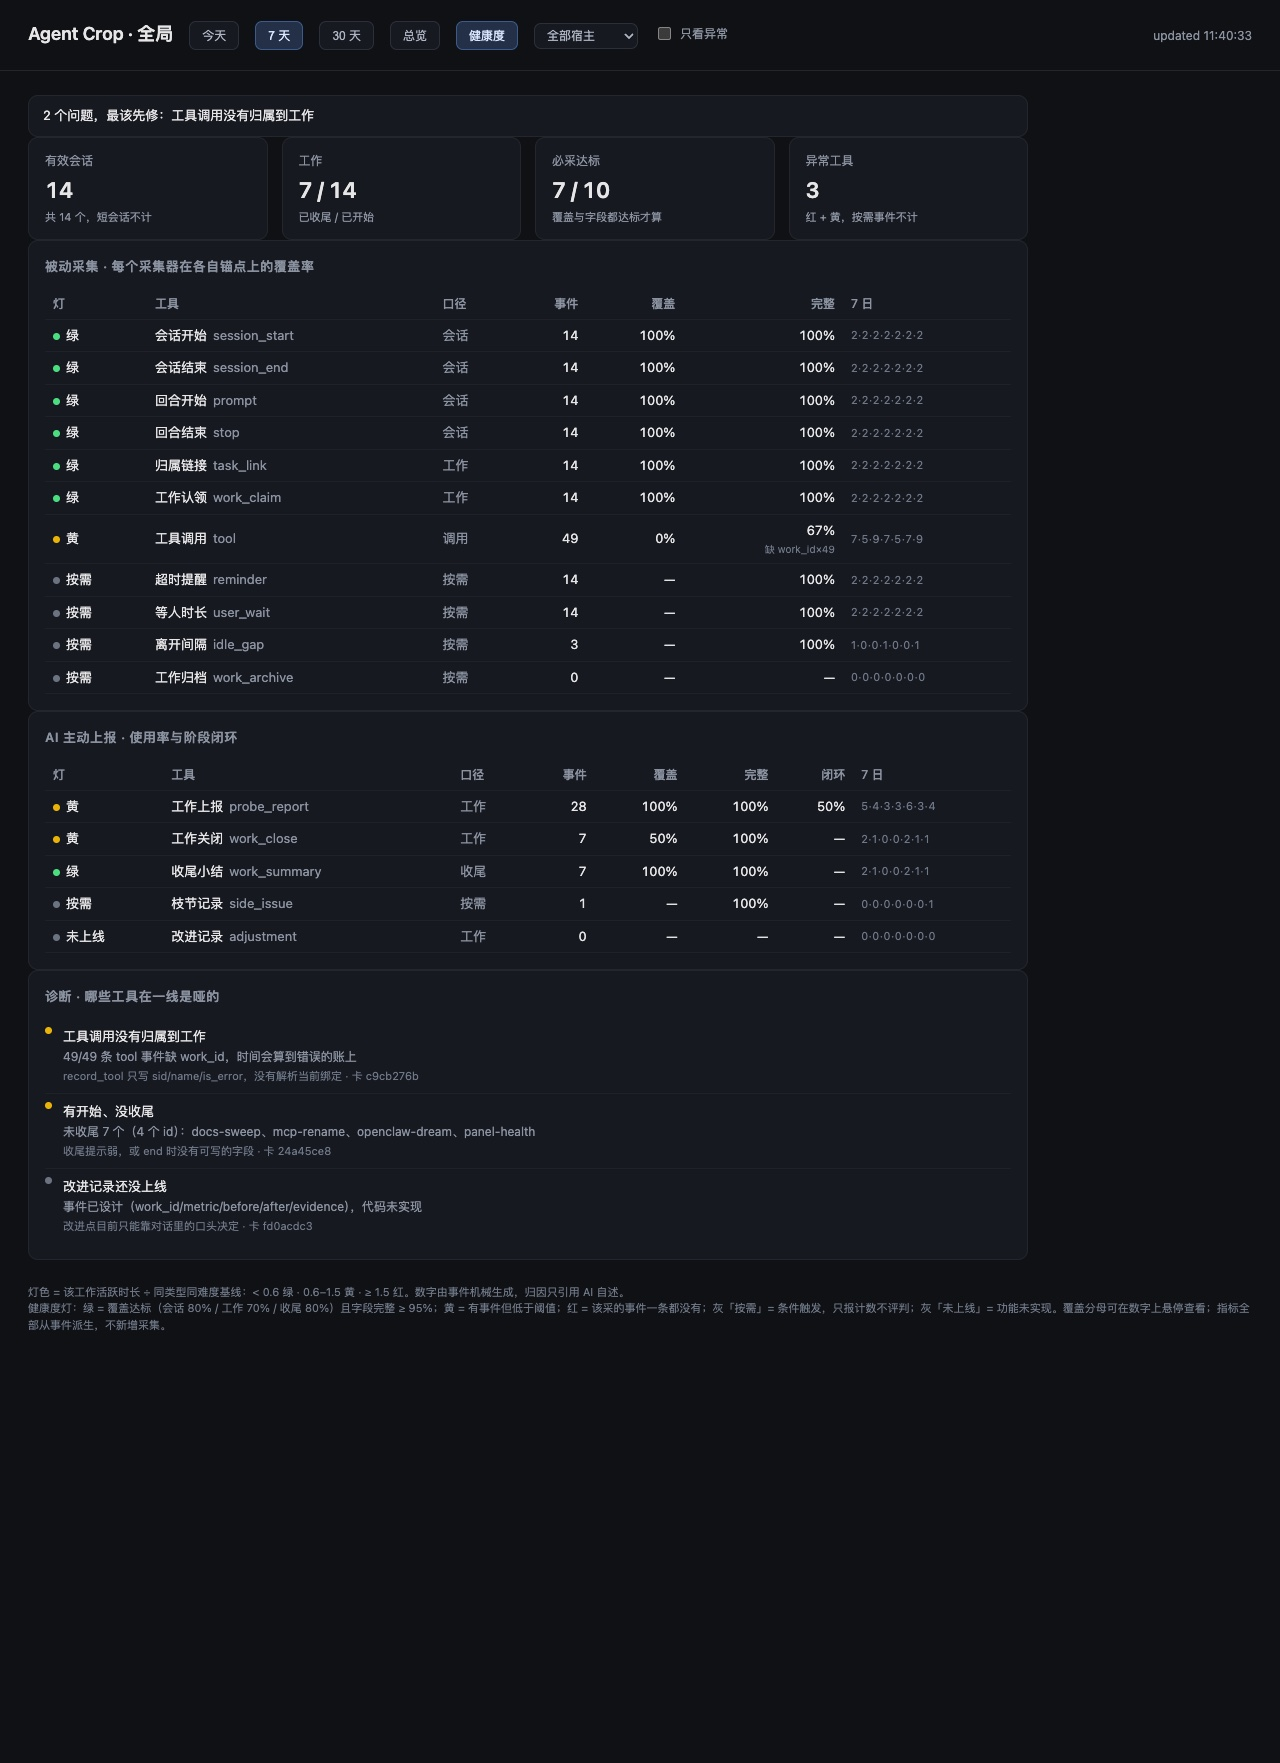
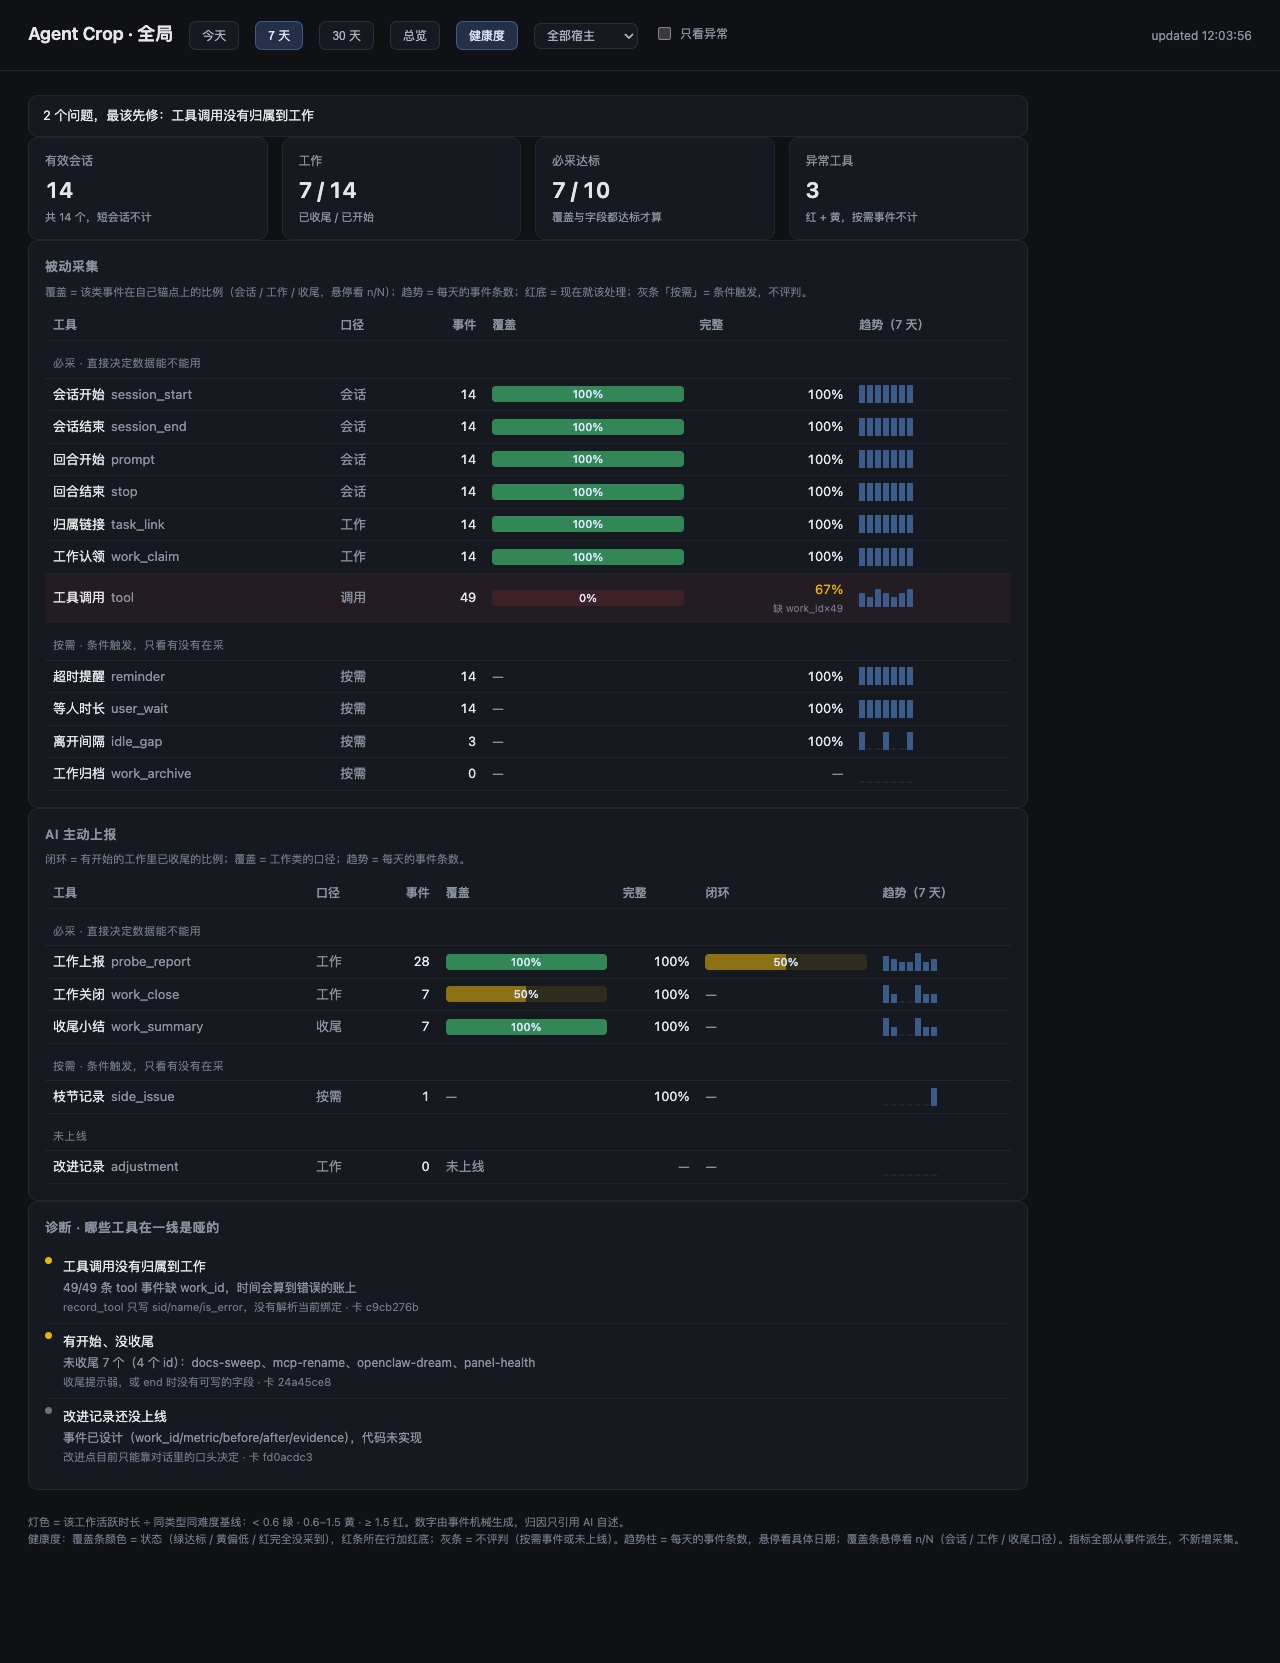
feat(panel): 健康度表格改成人读的形态——彩色覆盖条、分组、趋势小柱图
- 覆盖/闭环从「灯 + 百分比」合并成彩色条：绿达标 / 黄偏低 / 红完全没采到；
  条内写百分比、悬停显示 n/N；红条所在行加淡红底，扫一眼就能定位
- 表格按「必采 / 按需 / 未上线」分组；「按需」组不再参与评判
- 趋势从数字串换成每天事件条数的小柱图，悬停看具体日期；表头加一句口径说明
- 修 no-delta 规则误把分组行也隐藏的问题（改为只藏 delta 单元格）
- 修 .bar 与总览图表 class 冲突导致条颜色失效（改名 .meter）
- README/CHANGELOG 同步截图与说明

diff --git a/core/crop_serve.py b/core/crop_serve.py
@@ -42,7 +42,7 @@ th.num{text-align:right}
 .tab{background:#161920;border:1px solid #2a2f39;color:#aeb6c4;border-radius:7px;padding:5px 12px;font-size:12px;cursor:pointer}
 .tab.on{background:#233047;border-color:#3b5b8a;color:#dbe7ff}
 .view[hidden]{display:none}
-table.no-delta th:last-child,table.no-delta td:last-child{display:none}
+table.no-delta th.delta,table.no-delta td.delta{display:none}
 .diag{display:grid;grid-template-columns:10px 1fr;gap:8px;padding:8px 0;border-bottom:1px solid #1e2128}
 .diag:last-child{border-bottom:0}
 .diag .t{font-size:13px}
@@ -50,6 +50,15 @@ table.no-delta th:last-child,table.no-delta td:last-child{display:none}
 .diag .c{color:#6f7887;font-size:11px;margin-top:2px}
 .trend{color:#6f7887;font-size:11px;letter-spacing:.04em}
 .mini{color:#6f7887;font-size:10px;margin-top:2px}
+.hint{color:#6f7887;font-size:11px;margin:-6px 0 10px;line-height:1.6}
+tr.group td{color:#6f7887;font-size:11px;padding-top:14px;border-bottom:1px solid #23262d;letter-spacing:.04em}
+tr.row-red td{background:rgba(239,68,68,.06)}
+.meter{position:relative;height:16px;background:#1e2128;border-radius:4px;overflow:hidden;min-width:96px}
+.meter i{display:block;height:100%;opacity:.5}
+.meter b{position:absolute;inset:0;display:flex;align-items:center;justify-content:center;font-weight:500;font-size:11px;color:#dbe7ff}
+.spark{display:flex;align-items:flex-end;gap:2px;height:18px}
+.spark i{display:block;width:6px;background:#3b5b8a;border-radius:1px 1px 0 0;min-height:2px}
+.spark i.zero{background:#23262d}
 .headline{background:#161920;border:1px solid #23262d;border-radius:10px;padding:10px 14px;font-size:13px}
 select.host{background:#161920;border:1px solid #2a2f39;color:#aeb6c4;border-radius:7px;padding:4px 8px;font-size:12px}
 .chart{display:flex;align-items:flex-end;gap:6px;height:180px;padding-top:6px}
@@ -88,12 +97,14 @@ footer{color:#6f7887;font-size:11px;padding:0 28px 24px}
   <div id="view-health" class="view" hidden>
     <div class="headline" id="health-headline"></div>
     <div class="cards" id="health-cards"></div>
-    <section><h2>被动采集 · 每个采集器在各自锚点上的覆盖率</h2>
-      <table><thead><tr><th>灯</th><th>工具</th><th>口径</th><th class="num">事件</th><th class="num">覆盖</th><th class="num">完整</th><th>7 日</th><th class="num">比上周</th></tr></thead>
+    <section><h2>被动采集</h2>
+      <div class="hint">覆盖 = 该类事件在自己锚点上的比例（会话 / 工作 / 收尾，悬停看 n/N）；趋势 = 每天的事件条数；红底 = 现在就该处理；灰条「按需」= 条件触发，不评判。</div>
+      <table><thead><tr><th>工具</th><th>口径</th><th class="num">事件</th><th>覆盖</th><th>完整</th><th>趋势（7 天）</th><th class="num delta">比上周</th></tr></thead>
         <tbody id="health-passive"></tbody></table>
     </section>
-    <section><h2>AI 主动上报 · 使用率与阶段闭环</h2>
-      <table><thead><tr><th>灯</th><th>工具</th><th>口径</th><th class="num">事件</th><th class="num">覆盖</th><th class="num">完整</th><th class="num">闭环</th><th>7 日</th><th class="num">比上周</th></tr></thead>
+    <section><h2>AI 主动上报</h2>
+      <div class="hint">闭环 = 有开始的工作里已收尾的比例；覆盖 = 工作类的口径；趋势 = 每天的事件条数。</div>
+      <table><thead><tr><th>工具</th><th>口径</th><th class="num">事件</th><th>覆盖</th><th>完整</th><th>闭环</th><th>趋势（7 天）</th><th class="num delta">比上周</th></tr></thead>
         <tbody id="health-active"></tbody></table>
     </section>
     <section><h2>诊断 · 哪些工具在一线是哑的</h2>
@@ -101,7 +112,7 @@ footer{color:#6f7887;font-size:11px;padding:0 28px 24px}
     </section>
   </div>
 </main>
-<footer>灯色 = 该工作活跃时长 ÷ 同类型同难度基线：&lt; 0.6 绿 · 0.6–1.5 黄 · ≥ 1.5 红。数字由事件机械生成，归因只引用 AI 自述。<br>健康度灯：绿 = 覆盖达标（会话 80% / 工作 70% / 收尾 80%）且字段完整 ≥ 95%；黄 = 有事件但低于阈值；红 = 该采的事件一条都没有；灰「按需」= 条件触发，只报计数不评判；灰「未上线」= 功能未实现。覆盖分母可在数字上悬停查看；指标全部从事件派生，不新增采集。</footer>
+<footer>灯色 = 该工作活跃时长 ÷ 同类型同难度基线：&lt; 0.6 绿 · 0.6–1.5 黄 · ≥ 1.5 红。数字由事件机械生成，归因只引用 AI 自述。<br>健康度：覆盖条颜色 = 状态（绿达标 / 黄偏低 / 红完全没采到），红条所在行加红底；灰条 = 不评判（按需事件或未上线）。趋势柱 = 每天的事件条数，悬停看具体日期；覆盖条悬停看 n/N（会话 / 工作 / 收尾口径）。指标全部从事件派生，不新增采集。</footer>
 <script>
 let rangeDays = 7;
 const LAMP = {green:'#4ade80', yellow:'#eab308', red:'#ef4444'};
@@ -198,18 +209,58 @@ if (hostSelect) hostSelect.addEventListener('change', () => load());
 const issueToggle = document.getElementById('only-issues');
 if (issueToggle) issueToggle.addEventListener('change', () => { onlyIssues = issueToggle.checked; load(); });
 
-function lampDot(row){
-  if (row.status === 'not-shipped') return '<span class="dot" style="background:#6b7280"></span>未上线';
-  if (row['class'] === 'on_demand') return '<span class="dot" style="background:#6b7280"></span>按需';
-  const color = LAMP[row.lamp] || '#6b7280';
-  const label = {green:'绿', yellow:'黄', red:'红'}[row.lamp] || '—';
-  return '<span class="dot" style="background:' + color + '"></span>' + label;
-}
 function pct(value){ return value == null ? '—' : Math.round(value * 100) + '%'; }
-function trendText(rows){
-  if (!rows || !rows.length) return '—';
-  return rows.map(row => row.count).join('·');
+
+function missingNote(row){
+  const entries = Object.entries(row.missing_fields || {});
+  if (!entries.length) return '';
+  return '<div class="mini">缺 ' + entries.map(([key, value]) => esc(key) + '×' + value).join('、') + '</div>';
 }
+
+function barCell(options){
+  const value = options.value;
+  if (value == null) return '<td><span class="muted">—</span></td>';
+  const width = Math.max(0, Math.min(100, Math.round(value * 100)));
+  return '<td><div class="meter" style="background:' + options.color + '1f" title="' + esc(options.title || '') + '">' +
+    '<i style="width:' + width + '%;background:' + options.color + '"></i>' +
+    '<b>' + pct(value) + '</b></div>' + (options.note || '') + '</td>';
+}
+
+function coverageCell(row){
+  if (row.status === 'not-shipped') return '<td><span class="muted">未上线</span></td>';
+  if (row['class'] === 'on_demand' || row.session_coverage == null) return '<td><span class="muted">—</span></td>';
+  const title = row.coverage_numerator != null
+    ? row.coverage_numerator + ' / ' + row.coverage_denominator + '（' + row.scope + '口径）'
+    : '';
+  const thresholds = {session: 0.8, work: 0.7, ended: 0.8, call: 0.9};
+  const value = row.session_coverage;
+  const threshold = thresholds[row['class']] || 0.8;
+  const color = value >= threshold ? '#4ade80' : (value > 0 ? '#eab308' : '#ef4444');
+  return barCell({value: value, color: color, title: title});
+}
+
+function closureCell(row, works){
+  if (row.status === 'not-shipped' || row.stage_closure == null) return '<td><span class="muted">—</span></td>';
+  const color = row.stage_closure >= 0.7 ? '#4ade80' : '#eab308';
+  const title = '已收尾 ' + (works.ended || 0) + ' / 已开始 ' + (works.started || 0);
+  return barCell({value: row.stage_closure, color: color, title: title});
+}
+
+function completenessCell(row){
+  if (!row.events) return '<td class="num"><span class="muted">—</span></td>';
+  const value = row.field_completeness;
+  const color = value >= 0.95 ? '#e6e6e6' : (value > 0 ? '#eab308' : '#ef4444');
+  return '<td class="num" style="color:' + color + '">' + pct(value) + missingNote(row) + '</td>';
+}
+
+function sparkline(rows){
+  if (!rows || !rows.length) return '—';
+  const max = Math.max(1, ...rows.map(row => row.count));
+  return '<div class="spark" title="每天的事件条数（7 天，悬停看某一天）">' + rows.map(row =>
+    '<i' + (row.count ? '' : ' class="zero"') + ' style="height:' + Math.max(2, Math.round(row.count / max * 18)) +
+    'px" title="' + esc(row.date + '：' + row.count + ' 条') + '"></i>').join('') + '</div>';
+}
+
 function deltaText(row){
   const delta = row.delta_vs_previous;
   if (delta == null) return row.events ? '<span class="muted">无上周</span>' : '—';
@@ -218,36 +269,41 @@ function deltaText(row){
   const color = up ? '#4ade80' : '#ef4444';
   return '<span style="color:' + color + '">' + (up ? '↑' : '↓') + Math.abs(Math.round(delta * 100)) + '%</span>';
 }
-function missingNote(row){
-  const entries = Object.entries(row.missing_fields || {});
-  if (!entries.length) return '';
-  return '<div class="mini">缺 ' + entries.map(([key, value]) => esc(key) + '×' + value).join('、') + '</div>';
-}
-function coverageCell(row){
-  if (row['class'] === 'on_demand') return '—';
-  if (row.status === 'not-shipped') return '—';
-  const value = pct(row.session_coverage);
-  if (row.coverage_denominator == null) return value;
-  const title = row.coverage_numerator + ' / ' + row.coverage_denominator;
-  return '<span title="' + esc(title) + '">' + value + '</span>';
-}
-function rowHtml(row, showClosure){
-  if (onlyIssues && (row.lamp === 'green' || row['class'] === 'on_demand' || row.status === 'not-shipped')) {
-    return '';
-  }
-  const closure = showClosure
-    ? (row.status === 'not-shipped' ? '—' : pct(row.stage_closure))
-    : '';
-  return '<tr><td>' + lampDot(row) + '</td>' +
+
+function rowHtml(row, showClosure, works){
+  const zeroCoverage = row.events > 0 && row.session_coverage === 0;
+  const rowClass = (row.lamp === 'red' || zeroCoverage) ? ' class="row-red"' : '';
+  return '<tr' + rowClass + '>' +
     '<td>' + esc(row.label) + '<span class="muted" style="margin-left:6px">' + esc(row.tool) + '</span></td>' +
     '<td class="muted">' + esc(row.scope || '') + '</td>' +
     '<td class="num">' + row.events + '</td>' +
-    '<td class="num">' + coverageCell(row) + '</td>' +
-    '<td class="num">' + (row.events ? pct(row.field_completeness) : '—') + missingNote(row) + '</td>' +
-    (showClosure ? '<td class="num">' + closure + '</td>' : '') +
-    '<td class="trend">' + trendText(row.trend) + '</td>' +
-    '<td class="num">' + deltaText(row) + '</td></tr>';
+    coverageCell(row) +
+    completenessCell(row) +
+    (showClosure ? closureCell(row, works) : '') +
+    '<td>' + sparkline(row.trend) + '</td>' +
+    '<td class="num delta">' + deltaText(row) + '</td></tr>';
 }
+
+function renderRows(tbodyId, rows, showClosure, works){
+  const groups = [
+    {title: '必采 · 直接决定数据能不能用', test: row => row['class'] !== 'on_demand' && row.status !== 'not-shipped'},
+    {title: '按需 · 条件触发，只看有没有在采', test: row => row['class'] === 'on_demand'},
+    {title: '未上线', test: row => row.status === 'not-shipped'},
+  ];
+  const visible = onlyIssues
+    ? rows.filter(row => row.lamp === 'red' || row.lamp === 'yellow')
+    : rows;
+  const span = showClosure ? 8 : 7;
+  const html = groups.map(group => {
+    const items = visible.filter(group.test);
+    if (!items.length) return '';
+    return '<tr class="group"><td colspan="' + span + '">' + group.title + '</td></tr>' +
+      items.map(row => rowHtml(row, showClosure, works)).join('');
+  }).join('');
+  document.getElementById(tbodyId).innerHTML = html ||
+    '<tr><td colspan="' + span + '" class="muted">没有异常。</td></tr>';
+}
+
 function syncHostOptions(hosts){
   const select = document.getElementById('host');
   if (!select) return;
@@ -257,24 +313,26 @@ function syncHostOptions(hosts){
   select.innerHTML = options.join('');
   select.value = hosts.includes(current) ? current : '';
 }
+
 function renderDiags(data){
   const diags = data.diagnostics || [];
-  document.getElementById('health-diags').innerHTML = diags.length ? diags.map(d => {
-    const color = d.severity === 'info' ? '#6b7280' : (d.severity === 'error' ? '#ef4444' : '#eab308');
-    const card = d.card ? ' · 卡 ' + esc(d.card) : '';
+  document.getElementById('health-diags').innerHTML = diags.length ? diags.map(diagnostic => {
+    const color = diagnostic.severity === 'info' ? '#6b7280'
+      : (diagnostic.severity === 'error' ? '#ef4444' : '#eab308');
+    const card = diagnostic.card ? ' · 卡 ' + esc(diagnostic.card) : '';
     return '<div class="diag"><span class="dot" style="background:' + color + '"></span><div>' +
-      '<div class="t">' + esc(d.title) + '</div>' +
-      '<div class="e">' + esc(d.evidence) + '</div>' +
-      '<div class="c">' + esc(d.cause) + card + '</div></div></div>';
+      '<div class="t">' + esc(diagnostic.title) + '</div>' +
+      '<div class="e">' + esc(diagnostic.evidence) + '</div>' +
+      '<div class="c">' + esc(diagnostic.cause) + card + '</div></div></div>';
   }).join('') : '<div class="muted">没有发现异常。</div>';
 }
 
 function renderHealth(data){
   const s = data.summary || {};
-  const headline = document.getElementById('health-headline');
-  if (headline) headline.textContent = s.headline || '';
   const sessions = data.sessions || {};
   const works = data.works || {};
+  const headline = document.getElementById('health-headline');
+  if (headline) headline.textContent = s.headline || '';
   const cards = [
     ['有效会话', sessions.eligible || 0, '共 ' + (sessions.total || 0) + ' 个，短会话不计'],
     ['工作', (works.ended || 0) + ' / ' + (works.started || 0), '已收尾 / 已开始'],
@@ -285,13 +343,11 @@ function renderHealth(data){
     '<div class="card"><div class="k">' + k + '</div><div class="v">' + (v == null ? '—' : v) + '</div>' +
     '<div class="n">' + note + '</div></div>').join('');
 
-  document.getElementById('health-passive').innerHTML =
-    (data.passive || []).map(row => rowHtml(row, false)).join('');
-  document.getElementById('health-active').innerHTML =
-    (data.active || []).map(row => rowHtml(row, true)).join('');
-  const hasPrevious = Boolean((data.summary || {}).has_previous);
+  const hasPrevious = Boolean(s.has_previous);
   document.querySelectorAll('#view-health table').forEach(table =>
     table.classList.toggle('no-delta', !hasPrevious));
+  renderRows('health-passive', data.passive || [], false, works);
+  renderRows('health-active', data.active || [], true, works);
   renderDiags(data);
   syncHostOptions(data.hosts || []);
 }

diff --git a/CHANGELOG.md b/CHANGELOG.md
@@ -16,8 +16,10 @@ Agent Crop（npm 包 `agent-crop-dsh`）的版本历史。结构参考 Keep a Ch
   - 事件分四类口径：会话 / 工作 / 调用 / 按需；覆盖按各自锚点算（会话数、工作数、收尾工作数），
     分母可悬停查看；「按需」事件（提醒、离开、枝节、归档）只报计数、不亮红黄，避免假警报。
   - 主动上报额外看阶段闭环（start→end，按会话×工作配对）与提醒后 10 分钟跟进率。
-  - 面板：顶部一句话结论 + 4 张卡（有效会话、收尾比、必采达标、异常工具）、
-    「只看异常」过滤、「主机」筛选、缺字段提示（缺 work_id×N）、诊断清单（指到看板卡）。
+  - 面板：顶部一句话结论 + 4 张卡（有效会话、收尾比、必采达标、异常工具）；
+    覆盖与闭环改用彩色条（绿达标 / 黄偏低 / 红完全没采到），红条所在行加红底；
+    表内按「必采 / 按需 / 未上线」分组；趋势改为每天事件条数的小柱图（悬停看日期）；
+    缺字段标「缺 work_id×N」；「只看异常」过滤；「主机」筛选；无上周数据时自动隐藏对比列。
   - `core.health_summary()` 计算指标，`/api/tool-health` 暴露 JSON，面板只渲染；
     指标全部从原始事件派生，不新增采集；样本 < 3 个会话时只报「样本太少」。
   - 统计纪律：排除 < 2 turn 的会话；闭环按「会话 × 工作」配对，避免同一 work_id 跨会话算成已收尾。
